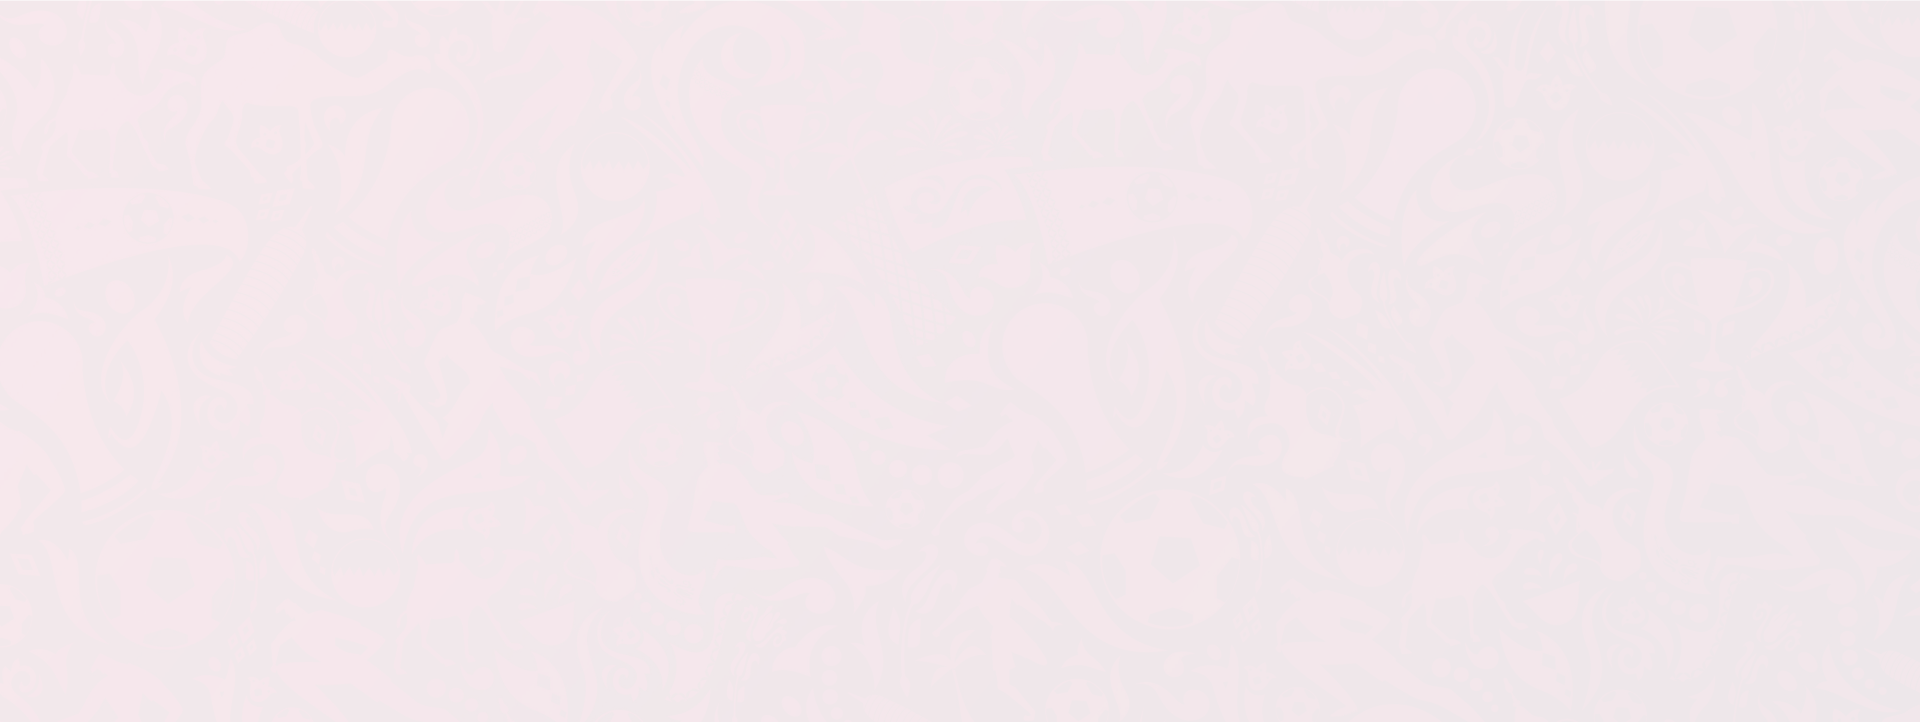
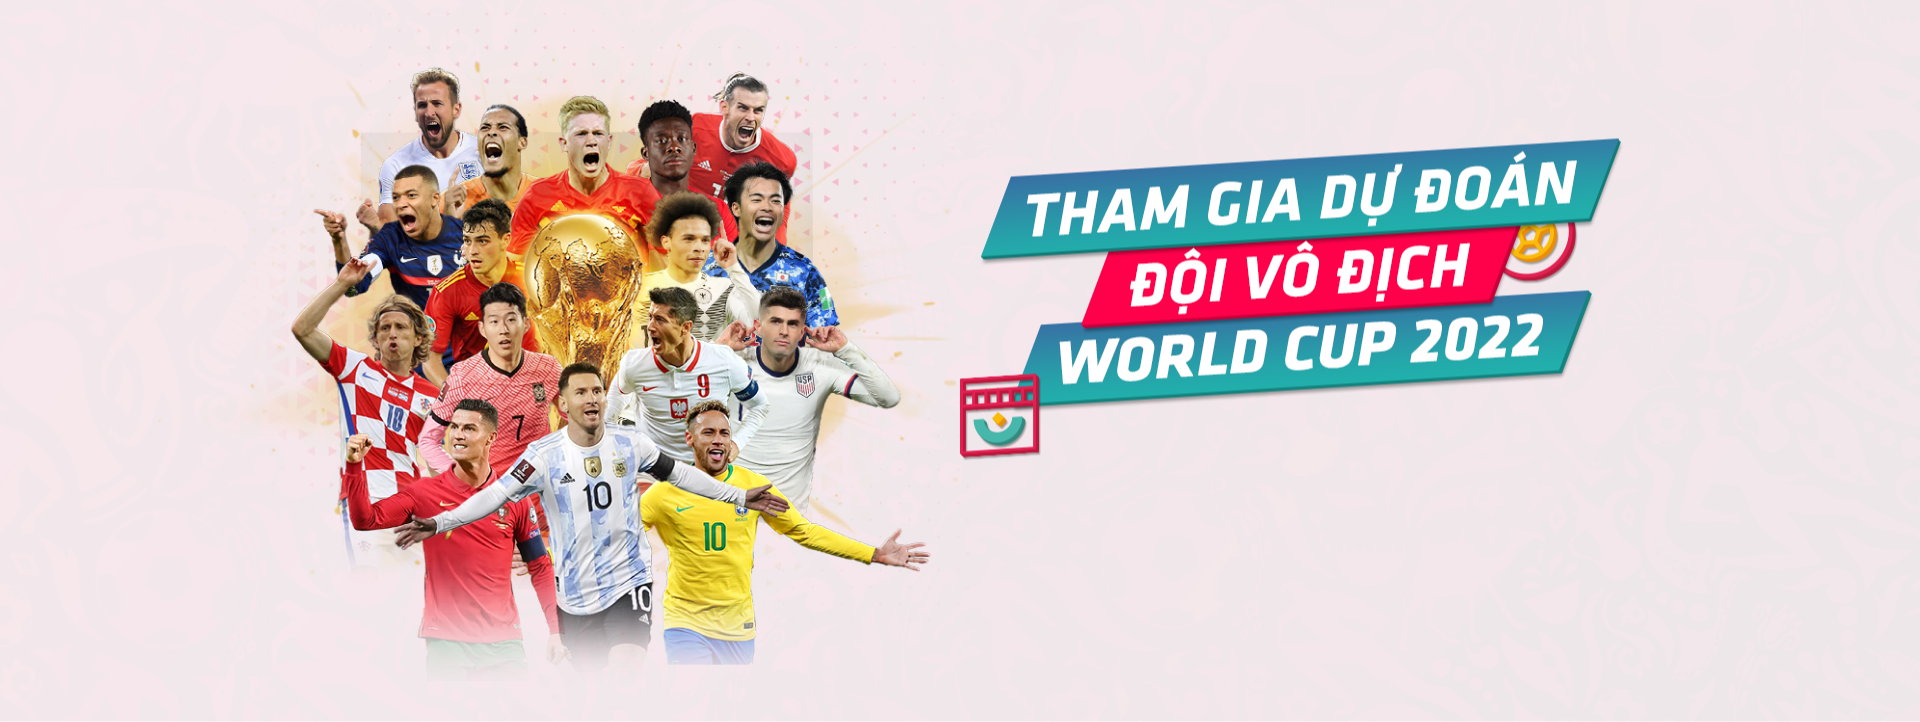
feat: add style minigame page

Changed region(s): [[0.1562, 0.0914, 0.5, 0.9446], [0.5, 0.1828, 0.8438, 0.6399]]

diff --git a/ClientSite/SabaNews.Site/wwwroot/styles/pages/event/worldcup2022/minigame.min.css b/ClientSite/SabaNews.Site/wwwroot/styles/pages/event/worldcup2022/minigame.min.css
@@ -1,1 +1,1 @@
-.wc-main,.wc-page-main{padding-top:3rem;}@media screen and (max-width:1024px){.wc-main,.wc-page-main{padding-top:2rem;}}.overflow-page{overflow:hidden;}body{background:#eeeee4 !important;}@media screen and (max-width:1024px){.header{position:relative;background:#48041a;}}.wc-logo{margin-right:-2rem;}@media screen and (max-width:1024px){.wc-logo{display:none !important;}}.wc-logo a{background:#eeeee4;height:9.5rem;display:flex !important;align-items:center;width:19rem;justify-content:center;clip-path:polygon(0 0,100% 0,77% 100%,23% 100%);transition:height .5s,polygon .5s !important;box-shadow:0 4px 16px rgba(0,0,0,.25);}@media screen and (min-width:1391px){.wc-logo a{width:23rem;}}.wc-logo a img{display:block;margin-top:.5rem;width:100px;transition:opacity .5s ease-in;}@media screen and (min-width:1391px){.wc-logo a img{width:120px;}}.wc-logo a .logo-scroll-header{opacity:0;visibility:hidden;position:absolute;margin-top:.2rem;top:50%;right:50%;transform:translate(50%,-50%);}.top-header{padding:0;background-color:#48041a;box-shadow:none;display:flex;align-items:center;height:7.7rem;transition:height .5s ease;}@media screen and (max-width:1024px){.top-header{padding:0;height:auto;}}@media screen and (min-width:1199px){.top-header.scroll-height{height:5rem;}.top-header.scroll-height .wc-logo a{height:5rem;clip-path:polygon(0 0,100% 0,80% 100%,20% 100%);}.top-header.scroll-height .wc-logo .logo-none-scroll{opacity:0;visibility:hidden;}.top-header.scroll-height .wc-logo .logo-scroll-header{opacity:1;visibility:visible;}}.top-header .group-menu{justify-content:center;}.top-header .group-menu .nav-menu{width:100% !important;}@media screen and (max-width:1024px){.top-header .group-menu .nav-menu{padding:0;}}.top-header .group-menu .nav-menu .main-menu{justify-content:space-evenly;}@media screen and (max-width:1024px){.top-header .group-menu .nav-menu .main-menu{background-color:#48041a;border-top:1px solid #c598a7;border-bottom:1px solid #c598a7;margin-top:5rem;}}.top-header .group-menu .nav-menu .main-menu .menu-item:after{background:#c598a7;}.top-header .group-menu .nav-menu .main-menu .menu-item .item{color:#c598a7;}.top-header .group-menu .nav-menu .main-menu .menu-item .item.active{color:#fff;}.top-header .group-menu .nav-menu .main-menu .menu-item .item:hover{color:#fff;}.top-header .back-home-page{display:block;padding-left:2rem;width:20rem;}@media screen and (max-width:1024px){.top-header .back-home-page{display:none;}}.top-header .back-home-page a{text-decoration:none;color:#c598a7;font-size:1.2rem;display:flex;}.top-header .back-home-page a i{margin-right:.5rem;font-size:2rem;}.search-input form input{border:1px solid #c598a7;outline:none;background:transparent;box-shadow:none;height:3.2rem;width:3.2rem;border-radius:50px;color:#c598a7;}@media screen and (max-width:1024px){.search-input form input{height:3.6rem;width:100%;}}.search-input form input::placeholder{color:transparent !important;}@media screen and (max-width:1024px){.search-input form input::placeholder{color:#c598a7 !important;}}.search-input form i:before{color:#c598a7 !important;}.search-input form .btn-search{left:3px !important;}@media screen and (max-width:1024px){.search-input form .btn-search{left:12px !important;}}.main-child-menu{background:#48041a !important;border-top:1px solid #601e33 !important;border-bottom:1px solid #601e33 !important;}.main-child-menu li a{color:#fff !important;}.right-header-section.hidden-pc{display:none;}@media screen and (max-width:1024px){.right-header-section.hidden-pc{display:block;top:6px;}}.right-header-section.hidden-mb{display:flex;align-items:center;padding-right:2rem;width:35rem;justify-content:flex-end;}@media screen and (max-width:1024px){.right-header-section.hidden-mb{display:none;}}.right-header-section.hidden-mb .auth-login{text-decoration:none;color:#c598a7;}@media screen and (max-width:1024px){.right-header-section{background-color:#48041a;}}.button-mobile .line-mb{background-color:#fff;}.header-controls{display:none;}@media screen and (max-width:1024px){.header-controls{display:block;}}.header-controls .logo{position:absolute;height:8rem;left:50%;margin-left:-9rem;top:-10px;background:#eeeee4;display:flex !important;align-items:center;width:19rem;justify-content:center;clip-path:polygon(0 0,100% 0,75% 100%,25% 100%);box-shadow:0 4px 16px rgba(0,0,0,.25);}.header-controls .logo img{width:80%;margin:0 auto;}.header-auth-provider{list-style:none;width:42rem;display:flex;align-items:center;justify-content:flex-end;}.header-auth-provider .auth-login{text-decoration:none;color:#c598a7 !important;font-weight:700;}.header-auth-provider .item-control{margin-right:1.6rem;}.header-auth-provider .item-control:last-child{margin-right:2rem;}.languages-box .language-select{border-right:none;padding-right:0;color:#c598a7;}.languages-box .language-select:after{border-top:5px solid #c598a7;}.languages-box .languages-list{overflow:hidden;}.show-on-pc{display:flex;}@media screen and (max-width:1024px){.show-on-pc{display:none;}}.show-on-pc .search-input{width:3.2rem;height:3.2rem;position:relative;border:1px solid #c598a7;border-radius:50px;}.show-on-pc .search-input form .search-hover{width:20rem;position:absolute;top:-1px;right:-1px;z-index:-1;}.show-on-pc .search-input form input{width:100%;background:#5c2034;padding:0 0 0 3.5rem;visibility:hidden;opacity:0;transition:all .3s ease-in-out;color:#c598a7;}.show-on-pc .search-input form input::placeholder{color:#c598a7 !important;}.show-on-pc .search-input form .icon-search-hover{position:absolute;left:10px;top:5px;font-size:2.4rem;visibility:hidden;opacity:0;transition:all .3s ease-in-out;}.show-on-pc .search-input:hover form .search-hover{z-index:9;}.show-on-pc .search-input:hover form input,.show-on-pc .search-input:hover form .icon-search-hover{visibility:visible;opacity:1;}.child-mobile-menu .icon-arrow{background:url("../../../../../images/worldcup/arrow.svg") no-repeat;right:0;width:3rem;}.auth-provider{list-style:none;display:flex;align-items:center;padding:.5rem 0;cursor:pointer;}@media screen and (max-width:1024px){.auth-provider{padding:0;}}.auth-provider .avatar-user{width:3rem;height:3rem;background:#8a2745 !important;border:1px solid #a2435f;font-weight:bold;color:#c598a7 !important;border-radius:50%;margin:0 .5rem 0 0;display:flex;align-items:center;justify-content:center;overflow:hidden;}.auth-provider .avatar-user img{object-fit:cover;width:100%;height:100%;}.auth-provider .auth-displayname{position:relative;padding-right:.8rem;color:#c598a7;font-weight:700;}.auth-provider .auth-displayname:after{border-left:5px solid transparent;border-right:5px solid transparent;border-top:5px solid #c598a7;position:absolute;top:10px;right:-5px;content:'';}@media screen and (max-width:1024px){.auth-provider .auth-displayname:after{display:none;}}@media screen and (max-width:1024px){.auth-provider .auth-displayname .display-user{display:none;}}.box-auth{display:none;background:linear-gradient(180deg,#67182b 0%,#470817 100%);border:1px solid #9a576c;border-radius:5px;list-style:none;padding:1.6rem 1.6rem 0;position:absolute;width:24rem;top:6.2rem;z-index:99999;right:10px;}.box-auth:before{display:none;}@media screen and (max-width:1024px){.box-auth{right:0;}}.box-auth .auth-displayname{color:#fff;}.box-auth .info-user{border-bottom:1px solid #9a576c;}.box-auth .info-user .item{padding:1rem 0;display:block;font-weight:normal;color:#fff;text-decoration:none;}.box-auth .info-user .item .icon-logout{font-weight:bold;margin-left:6px;}.box-auth .info-user .item:hover{color:#9a576c;}.box-auth .info-user:last-child{border-bottom:none;}.box-auth .auth-provider .auth-displayname:after{display:none;}@media screen and (max-width:1024px){.box-auth .auth-provider .display-user{display:block;}}.box-auth .auth-provider .avatar-user{width:4.8rem;height:4.8rem;}.active-box-auth{display:block;}body{overflow:unset;}.wrapper-header{background:none;height:40vw;background-size:cover;background-position:top center;background-repeat:no-repeat;position:relative;}.wrapper-header .wave-game{background:url("../../../../images/worldcup/minigame/top_bg.png") #48041a;position:absolute;top:0;bottom:0;right:0;left:0;width:100%;height:100%;z-index:-1;transform:skewY(-2deg);transform-origin:top left;}.wrapper-header .header-control{position:unset;}.wrapper-header-column{display:grid;grid-template-columns:50% 50%;align-items:center;grid-gap:1rem;}
+.wc-main,.wc-page-main{padding-top:3rem;}@media screen and (max-width:1024px){.wc-main,.wc-page-main{padding-top:2rem;}}.overflow-page{overflow:hidden;}body{background:#eeeee4 !important;}@media screen and (max-width:1024px){.header{position:relative;background:#48041a;}}.wc-logo{margin-right:-2rem;}@media screen and (max-width:1024px){.wc-logo{display:none !important;}}.wc-logo a{background:#eeeee4;height:9.5rem;display:flex !important;align-items:center;width:19rem;justify-content:center;clip-path:polygon(0 0,100% 0,77% 100%,23% 100%);transition:height .5s,polygon .5s !important;box-shadow:0 4px 16px rgba(0,0,0,.25);}@media screen and (min-width:1391px){.wc-logo a{width:23rem;}}.wc-logo a img{display:block;margin-top:.5rem;width:100px;transition:opacity .5s ease-in;}@media screen and (min-width:1391px){.wc-logo a img{width:120px;}}.wc-logo a .logo-scroll-header{opacity:0;visibility:hidden;position:absolute;margin-top:.2rem;top:50%;right:50%;transform:translate(50%,-50%);}.top-header{padding:0;background-color:#48041a;box-shadow:none;display:flex;align-items:center;height:7.7rem;transition:height .5s ease;}@media screen and (max-width:1024px){.top-header{padding:0;height:auto;}}@media screen and (min-width:1199px){.top-header.scroll-height{height:5rem;}.top-header.scroll-height .wc-logo a{height:5rem;clip-path:polygon(0 0,100% 0,80% 100%,20% 100%);}.top-header.scroll-height .wc-logo .logo-none-scroll{opacity:0;visibility:hidden;}.top-header.scroll-height .wc-logo .logo-scroll-header{opacity:1;visibility:visible;}}.top-header .group-menu{justify-content:center;}.top-header .group-menu .nav-menu{width:100% !important;}@media screen and (max-width:1024px){.top-header .group-menu .nav-menu{padding:0;}}.top-header .group-menu .nav-menu .main-menu{justify-content:space-evenly;}@media screen and (max-width:1024px){.top-header .group-menu .nav-menu .main-menu{background-color:#48041a;border-top:1px solid #c598a7;border-bottom:1px solid #c598a7;margin-top:5rem;}}.top-header .group-menu .nav-menu .main-menu .menu-item:after{background:#c598a7;}.top-header .group-menu .nav-menu .main-menu .menu-item .item{color:#c598a7;}.top-header .group-menu .nav-menu .main-menu .menu-item .item.active{color:#fff;}.top-header .group-menu .nav-menu .main-menu .menu-item .item:hover{color:#fff;}.top-header .back-home-page{display:block;padding-left:2rem;width:20rem;}@media screen and (max-width:1024px){.top-header .back-home-page{display:none;}}.top-header .back-home-page a{text-decoration:none;color:#c598a7;font-size:1.2rem;display:flex;}.top-header .back-home-page a i{margin-right:.5rem;font-size:2rem;}.search-input form input{border:1px solid #c598a7;outline:none;background:transparent;box-shadow:none;height:3.2rem;width:3.2rem;border-radius:50px;color:#c598a7;}@media screen and (max-width:1024px){.search-input form input{height:3.6rem;width:100%;}}.search-input form input::placeholder{color:transparent !important;}@media screen and (max-width:1024px){.search-input form input::placeholder{color:#c598a7 !important;}}.search-input form i:before{color:#c598a7 !important;}.search-input form .btn-search{left:3px !important;}@media screen and (max-width:1024px){.search-input form .btn-search{left:12px !important;}}.main-child-menu{background:#48041a !important;border-top:1px solid #601e33 !important;border-bottom:1px solid #601e33 !important;}.main-child-menu li a{color:#fff !important;}.right-header-section.hidden-pc{display:none;}@media screen and (max-width:1024px){.right-header-section.hidden-pc{display:block;top:6px;}}.right-header-section.hidden-mb{display:flex;align-items:center;padding-right:2rem;width:35rem;justify-content:flex-end;}@media screen and (max-width:1024px){.right-header-section.hidden-mb{display:none;}}.right-header-section.hidden-mb .auth-login{text-decoration:none;color:#c598a7;}@media screen and (max-width:1024px){.right-header-section{background-color:#48041a;}}.button-mobile .line-mb{background-color:#fff;}.header-controls{display:none;}@media screen and (max-width:1024px){.header-controls{display:block;}}.header-controls .logo{position:absolute;height:8rem;left:50%;margin-left:-9rem;top:-10px;background:#eeeee4;display:flex !important;align-items:center;width:19rem;justify-content:center;clip-path:polygon(0 0,100% 0,75% 100%,25% 100%);box-shadow:0 4px 16px rgba(0,0,0,.25);}.header-controls .logo img{width:80%;margin:0 auto;}.header-auth-provider{list-style:none;width:42rem;display:flex;align-items:center;justify-content:flex-end;}.header-auth-provider .auth-login{text-decoration:none;color:#c598a7 !important;font-weight:700;}.header-auth-provider .item-control{margin-right:1.6rem;}.header-auth-provider .item-control:last-child{margin-right:2rem;}.languages-box .language-select{border-right:none;padding-right:0;color:#c598a7;}.languages-box .language-select:after{border-top:5px solid #c598a7;}.languages-box .languages-list{overflow:hidden;}.show-on-pc{display:flex;}@media screen and (max-width:1024px){.show-on-pc{display:none;}}.show-on-pc .search-input{width:3.2rem;height:3.2rem;position:relative;border:1px solid #c598a7;border-radius:50px;}.show-on-pc .search-input form .search-hover{width:20rem;position:absolute;top:-1px;right:-1px;z-index:-1;}.show-on-pc .search-input form input{width:100%;background:#5c2034;padding:0 0 0 3.5rem;visibility:hidden;opacity:0;transition:all .3s ease-in-out;color:#c598a7;}.show-on-pc .search-input form input::placeholder{color:#c598a7 !important;}.show-on-pc .search-input form .icon-search-hover{position:absolute;left:10px;top:5px;font-size:2.4rem;visibility:hidden;opacity:0;transition:all .3s ease-in-out;}.show-on-pc .search-input:hover form .search-hover{z-index:9;}.show-on-pc .search-input:hover form input,.show-on-pc .search-input:hover form .icon-search-hover{visibility:visible;opacity:1;}.child-mobile-menu .icon-arrow{background:url("../../../../../images/worldcup/arrow.svg") no-repeat;right:0;width:3rem;}.auth-provider{list-style:none;display:flex;align-items:center;padding:.5rem 0;cursor:pointer;}@media screen and (max-width:1024px){.auth-provider{padding:0;}}.auth-provider .avatar-user{width:3rem;height:3rem;background:#8a2745 !important;border:1px solid #a2435f;font-weight:bold;color:#c598a7 !important;border-radius:50%;margin:0 .5rem 0 0;display:flex;align-items:center;justify-content:center;overflow:hidden;}.auth-provider .avatar-user img{object-fit:cover;width:100%;height:100%;}.auth-provider .auth-displayname{position:relative;padding-right:.8rem;color:#c598a7;font-weight:700;}.auth-provider .auth-displayname:after{border-left:5px solid transparent;border-right:5px solid transparent;border-top:5px solid #c598a7;position:absolute;top:10px;right:-5px;content:'';}@media screen and (max-width:1024px){.auth-provider .auth-displayname:after{display:none;}}@media screen and (max-width:1024px){.auth-provider .auth-displayname .display-user{display:none;}}.box-auth{display:none;background:linear-gradient(180deg,#67182b 0%,#470817 100%);border:1px solid #9a576c;border-radius:5px;list-style:none;padding:1.6rem 1.6rem 0;position:absolute;width:24rem;top:6.2rem;z-index:99999;right:10px;}.box-auth:before{display:none;}@media screen and (max-width:1024px){.box-auth{right:0;}}.box-auth .auth-displayname{color:#fff;}.box-auth .info-user{border-bottom:1px solid #9a576c;}.box-auth .info-user .item{padding:1rem 0;display:block;font-weight:normal;color:#fff;text-decoration:none;}.box-auth .info-user .item .icon-logout{font-weight:bold;margin-left:6px;}.box-auth .info-user .item:hover{color:#9a576c;}.box-auth .info-user:last-child{border-bottom:none;}.box-auth .auth-provider .auth-displayname:after{display:none;}@media screen and (max-width:1024px){.box-auth .auth-provider .display-user{display:block;}}.box-auth .auth-provider .avatar-user{width:4.8rem;height:4.8rem;}.active-box-auth{display:block;}body{overflow:unset;}.wrapper-header{background:none;height:36vw;position:relative;}.wrapper-header .wave-game{background:url("../../../../images/worldcup/minigame/top_bg.png") #48041a;background-size:100%;background-position:top center;background-repeat:no-repeat;position:absolute;top:0;bottom:0;right:0;left:0;width:100%;height:100%;z-index:-1;transform:skewY(-2deg);transform-origin:top left;}.wrapper-header .header-control{left:auto;right:17%;top:60%;}.wrapper-header .header-control ul li{margin-right:5rem;}.wrapper-header .header-control ul li a{clip-path:polygon(92% 0,100% 50%,94% 100%,8% 100%,0 50%,8% 0);border:none;background:#ff004b;border-radius:0;color:#fff;line-height:3.3rem;padding:.3vw 2vw;text-transform:inherit;}.wrapper-header .header-control ul li a:hover{background:#ff004b;border:none;color:#fff;}.wrapper-header-column{display:grid;grid-template-columns:50% 50%;align-items:center;grid-gap:1rem;}.footer{background-color:#081224;}

diff --git a/ClientSite/SabaNews.Site/wwwroot/styles/pages/event/worldcup2022/minigame.scss b/ClientSite/SabaNews.Site/wwwroot/styles/pages/event/worldcup2022/minigame.scss
@@ -9,15 +9,15 @@ body{
 }
 
 .wrapper-header {
-    background : none;
-    height: 40vw;
-    background-size: cover;
-    background-position: top center;
-    background-repeat: no-repeat;
+    background: none;
+    height: 36vw;
     position: relative;
 
     .wave-game {
         background: url('../../../../images/worldcup/minigame/top_bg.png') $primary-bg;
+        background-size: 100%;
+        background-position: top center;
+        background-repeat: no-repeat;
         position: absolute;
         top: 0;
         bottom: 0;
@@ -31,13 +31,40 @@ body{
     }
 
     .header-control {
-        position : unset;
+        left : auto;
+        right : 17%;
+        top : 60%;
+        ul {
+            li {
+                margin-right: 5rem;
+
+                a {
+                    clip-path: polygon(92% 0,100% 50%,94% 100%,8% 100%,0 50%,8% 0);
+                    border: none;
+                    background: #FF004B;
+                    border-radius: 0;
+                    color: $white-color;
+                    line-height: 3.3rem;
+                    padding: 0.3vw 2vw;
+                    text-transform: inherit;
+
+                    &:hover {
+                        background: #FF004B;
+                        border: none;
+                        color: $white-color;
+                    }
+                }
+            }
+        }
     }
-    &-column{
-        display : grid;
-        grid-template-columns : 50% 50%;
-        align-items : center;
-        grid-gap : 1rem;
+
+    &-column {
+        display: grid;
+        grid-template-columns: 50% 50%;
+        align-items: center;
+        grid-gap: 1rem;
     }
 }
-
+.footer {
+    background-color: #081224;
+}

diff --git a/ClientSite/SabaNews.Site/wwwroot/styles/pages/event/worldcup2022/minigame.css b/ClientSite/SabaNews.Site/wwwroot/styles/pages/event/worldcup2022/minigame.css
@@ -366,13 +366,13 @@ body {
 
 .wrapper-header {
   background: none;
-  height: 40vw;
-  background-size: cover;
-  background-position: top center;
-  background-repeat: no-repeat;
+  height: 36vw;
   position: relative; }
   .wrapper-header .wave-game {
     background: url("../../../../images/worldcup/minigame/top_bg.png") #48041A;
+    background-size: 100%;
+    background-position: top center;
+    background-repeat: no-repeat;
     position: absolute;
     top: 0;
     bottom: 0;
@@ -384,9 +384,29 @@ body {
     transform: skewY(-2deg);
     transform-origin: top left; }
   .wrapper-header .header-control {
-    position: unset; }
+    left: auto;
+    right: 17%;
+    top: 60%; }
+    .wrapper-header .header-control ul li {
+      margin-right: 5rem; }
+      .wrapper-header .header-control ul li a {
+        clip-path: polygon(92% 0, 100% 50%, 94% 100%, 8% 100%, 0 50%, 8% 0);
+        border: none;
+        background: #FF004B;
+        border-radius: 0;
+        color: #fff;
+        line-height: 3.3rem;
+        padding: 0.3vw 2vw;
+        text-transform: inherit; }
+        .wrapper-header .header-control ul li a:hover {
+          background: #FF004B;
+          border: none;
+          color: #fff; }
   .wrapper-header-column {
     display: grid;
     grid-template-columns: 50% 50%;
     align-items: center;
     grid-gap: 1rem; }
+
+.footer {
+  background-color: #081224; }
